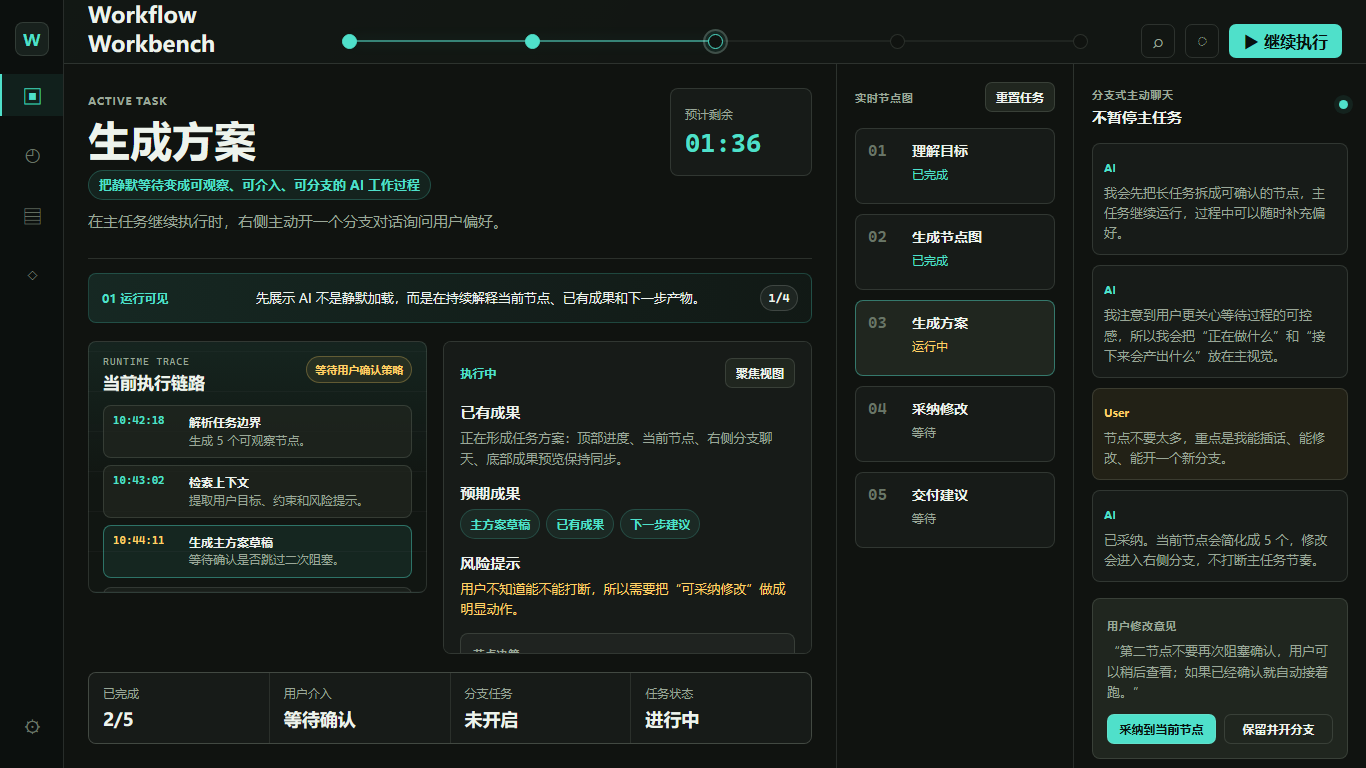
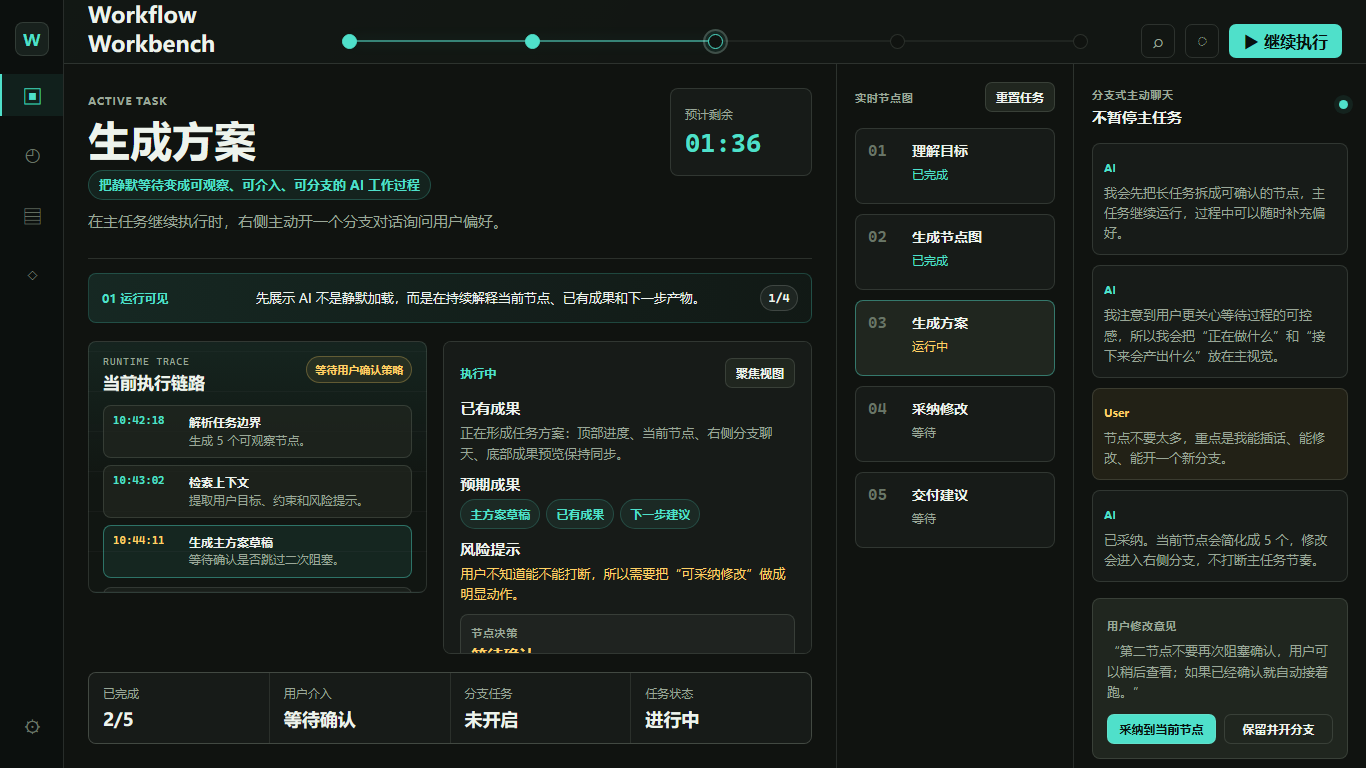
Align docs and add stateful handoff summary

Changed region(s): [[0.3382, 0.5, 0.5842, 0.875]]

diff --git a/src/App.tsx b/src/App.tsx
@@ -221,6 +221,12 @@ function App() {
     }
   };
   const currentArtifact = artifacts[selectedArtifact];
+  const handoffSummary = [
+    `当前节点决策：${decisionLabel[nodeDecision]}`,
+    `用户介入：${extraMessages.some((message) => message.speaker === 'User') ? '已收到临时约束' : '暂无新增约束'}`,
+    `分支状态：${branchOpened ? 'V2 分支运行中，可与 V1 对比' : '尚未开启分支'}`,
+    `下一步：${isComplete ? '可交付阶段摘要或开启继续会话' : '继续执行后续节点'}`
+  ];
   const runtimeEvents: RuntimeEvent[] = [
     {
       id: 'intent',
@@ -601,6 +607,11 @@ function App() {
                       ? '已把节点图、用户插话、分支选择和完成态整理成可交付摘要。'
                       : '已保留本次运行上下文，下一轮会直接接续当前任务。'}
                   </p>
+                  {handoffAction === 'summary' && (
+                    <ul>
+                      {handoffSummary.map((item) => <li key={item}>{item}</li>)}
+                    </ul>
+                  )}
                 </article>
               )}
             </section>

diff --git a/src/styles.css b/src/styles.css
@@ -985,6 +985,22 @@ button {
   line-height: 1.5;
 }
 
+.handoff-confirmation ul {
+  display: grid;
+  gap: 5px;
+  margin: 10px 0 0;
+  padding: 0;
+  list-style: none;
+}
+
+.handoff-confirmation li {
+  border-left: 2px solid rgba(149, 210, 123, 0.42);
+  padding-left: 8px;
+  color: var(--muted);
+  font-size: 12px;
+  line-height: 1.4;
+}
+
 .workbench.is-focus .stage {
   grid-template-columns: minmax(0, 1fr) 230px;
 }

diff --git a/docs/final-delivery.md b/docs/final-delivery.md
@@ -1,8 +1,8 @@
-# 最终交付说明
+# 交付说明
 
 ## 交付物
 
-- 在线演示：
+- 在线体验：
   `https://hummmmmm122-ui.github.io/ai-long-task-runtime-demo/`
 - GitHub 仓库：
   `https://github.com/hummmmmm122-ui/ai-long-task-runtime-demo`
@@ -11,66 +11,54 @@
 
 ## 项目目标
 
-这个 demo 用于演示 AI 长耗时任务中的等待态重构。
+这个 demo 是一个 AI 长任务运行台产品原型。它验证的不是“如何展示等待动画”，而是当 AI 需要较长时间执行任务时，产品如何让用户持续获得控制感：
 
-它关注的不是“做一个 loading 动画”，而是当 AI 需要较长时间处理任务时，产品如何让用户持续知道：
+- 用户能看到 AI 当前运行到哪个节点。
+- 用户能展开事件流，查看每一步的证据和处理详情。
+- 用户能查看 artifact/checkpoint，而不是等最终答案才知道方向是否正确。
+- 用户能确认当前节点，或标记为需复核。
+- 用户能在任务运行中临时介入，并选择采纳到当前节点或保留 V1 后开 V2 分支。
+- 用户能在分支开启后查看 V1/V2 差异。
 
-- AI 已经理解了什么。
-- 当前正在执行哪个节点。
-- 已经产生了哪些阶段性成果。
-- 接下来会产出什么。
-- 用户是否可以中途插话、修改或开启分支。
+## 当前可体验路径
 
-## 演示入口
+1. 打开在线体验页面。
+2. 查看默认的 `生成方案` 运行态。
+3. 点击运行事件流中的任意事件，查看证据和详情。
+4. 点击 `查看检查点`，展开当前 checkpoint。
+5. 点击 `确认当前节点` 或 `标记需复核`，观察底部用户介入状态变化。
+6. 在右侧 `临时介入` 输入框补充约束，并发送到当前节点。
+7. 点击 `采纳到当前节点`，观察当前节点和事件流状态变化。
+8. 点击 `保留并开分支`，查看 V1/V2 对比和 checkpoint 更新。
+9. 点击 `继续执行`，推进到后续节点和完成态。
 
-建议评审或录屏时按以下顺序查看：
-
-1. [演示导览图](demo-map.md)
-2. 在线演示页面
-3. [2 分钟口播脚本](demo-script.md)
-4. [录屏前检查清单](demo-checklist.md)
-
-## 已验证状态
-
-- 本地 `npm run build` 已通过。
-- GitHub Pages workflow 已配置。
-- GitHub Pages 已切换为 `GitHub Actions` 发布来源。
-- 在线演示页面已成功打开并显示正常。
-- 仓库 `main` 分支已推送最新版本。
-
-## 演示路径
-
-1. 默认展示 `生成方案` 节点和 `01 观察等待` 导演提示。
-2. 点击 `采纳到当前节点`，展示用户偏好被并入当前任务。
-3. 点击 `保留并开分支`，展示保留 V1 并开启 V2 分支。
-4. 点击 `推进演示`，进入后续节点。
-5. 推进到 `交付建议`，确认完成态显示 `READY`。
-6. 点击 `重置`，确认页面恢复干净初始演示态。
-
-## 范围边界
-
-已覆盖：
+## 已覆盖范围
 
 - AI 长任务节点可视化
-- 阶段性成果和预期成果展示
+- 可点击运行事件流
+- Artifact/checkpoint 预览
+- 当前节点确认与需复核标记
 - 分支式主动聊天
+- 临时介入输入
 - 用户修改意见采纳
 - 保留当前版本并开启分支
-- 演示完成态和下一步建议
-- 在线部署和录屏材料
+- V1/V2 分支差异对比
+- 阶段摘要和继续会话入口
+- GitHub Pages 在线部署
 
-未覆盖：
+## 未覆盖范围
 
-- 真实 AI 后端
-- 真实任务队列
-- 多用户登录
+- 真实 AI 后端调用
+- 真实任务执行队列
+- 多用户登录和权限
 - 数据库存储
-- 真实节点回滚和版本 diff
+- 真实节点回滚
+- 真实版本 diff 引擎
 
 ## 后续扩展建议
 
 - 接入真实任务事件流，把当前模拟节点替换成真实执行状态。
-- 增加节点详情编辑和确认记录。
-- 增加 V1/V2 分支差异对比。
-- 把二维运行态做成可折叠浮层。
-- 将完成后的下一步建议一键开启为新会话。
+- 将 artifact/checkpoint 连接到真实文件或结构化产物。
+- 增加节点编辑、确认人、确认时间和复核记录。
+- 增加真实 V1/V2 diff 视图。
+- 将主动聊天生成的新建议一键开启为新会话。

diff --git a/docs/demo-map.md b/docs/demo-map.md
@@ -1,34 +1,36 @@
-# 演示导览图
+# 产品导览图
 
-这张导览图用于在演示前 10 秒说明项目主线：这个 demo 不是做一个更好看的 loading，而是把 AI 长任务的等待过程变成可观察、可参与、可调整的工作过程。
+这张图用于说明 AI 长任务运行台的产品闭环：它不是一个更漂亮的 loading，而是把 AI 的长时间执行过程变成可观察、可介入、可确认、可分支的工作台。
 
 ```mermaid
 flowchart LR
   A[用户提交长任务] --> B[AI 拆解任务节点]
-  B --> C[实时展示当前节点]
-  C --> D[持续呈现已有成果和预期成果]
-  D --> E[用户可在分支聊天中插话]
-  E --> F{用户意见如何处理}
-  F -->|采纳| G[并入当前节点 主任务继续]
-  F -->|保留并分支| H[保留 V1 开启 V2 分支]
-  G --> I[任务推进到交付建议]
-  H --> I
-  I --> J[生成下一步会话或演示脚本]
+  B --> C[运行事件流持续更新]
+  C --> D[Artifact 和 checkpoint 可展开查看]
+  D --> E{当前节点是否需要用户决策}
+  E -->|确认当前节点| F[主任务继续执行]
+  E -->|标记需复核| G[保留节点 待人工复核]
+  E -->|临时介入| H[补充约束到当前节点]
+  H --> I{处理用户介入}
+  I -->|采纳| F
+  I -->|保留并开分支| J[保留 V1 创建 V2]
+  J --> K[V1 / V2 对比]
+  F --> L[交付阶段摘要或接续会话]
+  G --> L
+  K --> L
 ```
 
-## 演示时要强调的 3 个关键词
+## 核心能力
 
-- **已接收**：AI 不只是显示加载动画，而是明确告诉用户任务已被理解并拆成节点。
-- **处理中**：每个节点都有当前动作、已有成果、预期成果和风险提示。
-- **可介入**：用户可以中途补充偏好，选择采纳到当前节点，或保留当前版本后开启新分支。
+- **可观察**：运行事件流展示 AI 当前做了什么、依据是什么、下一步会做什么。
+- **可确认**：用户可以确认当前节点，也可以标记为需复核。
+- **可介入**：用户可以在主任务不暂停的情况下补充临时约束。
+- **可分支**：系统可以保留当前版本 V1，并把新意见放入 V2 分支，后续对比差异。
+- **可接续**：任务完成后给出阶段摘要和继续会话入口，而不是只停在完成状态。
 
-## 观众应该看到什么
+## 当前页面对应关系
 
-1. 左侧主舞台展示 AI 正在执行的二维运行态，降低“是不是卡住了”的不确定感。
-2. 中间节点详情展示当前已经做出的阶段性成果，而不是等最终结果才给反馈。
-3. 右侧分支聊天展示用户可以在等待中继续参与，且不会打断主任务。
-4. 完成态继续给出下一步建议，让长任务自然接到新的行动。
-
-## 一句话总结
-
-这个 demo 验证的是一种新的 AI 产品交互：当任务需要较长时间时，系统应该把等待时间转化为可理解、可反馈、可继续推进的协作空间。
+- 左侧主工作区：当前节点、运行事件流、artifact/checkpoint、节点决策、V1/V2 对比。
+- 中间节点图：显示每个节点的完成、运行、等待、待确认或分支状态。
+- 右侧主动聊天：承接用户临时介入、采纳到当前节点、保留并开分支。
+- 底部状态条：汇总完成数量、用户介入、分支任务和任务状态。
